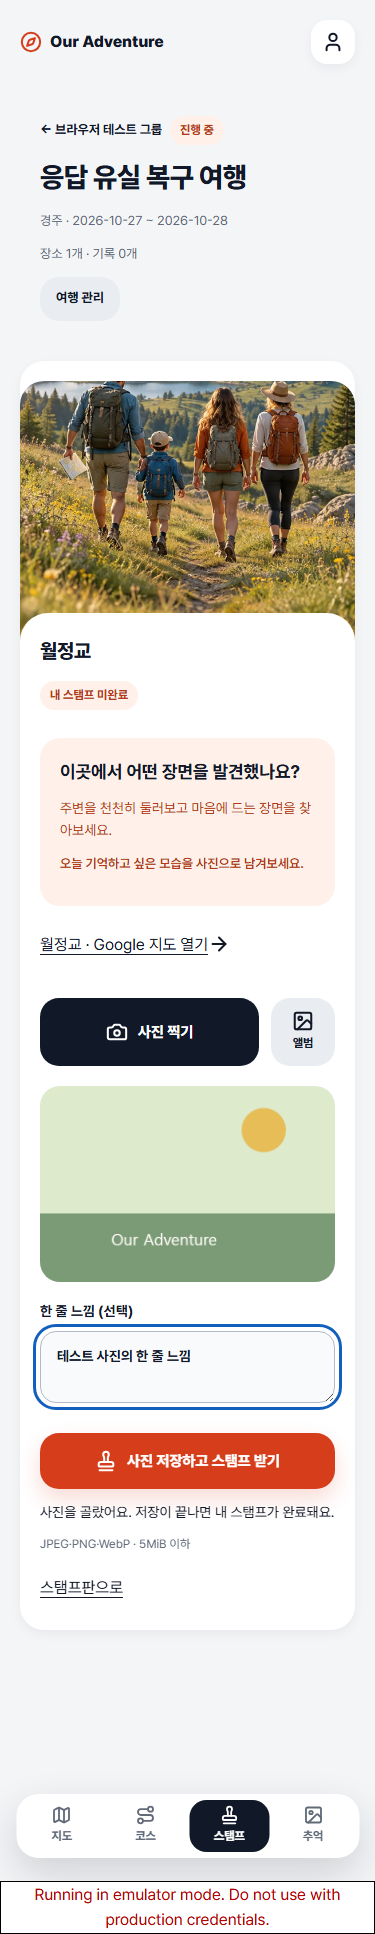
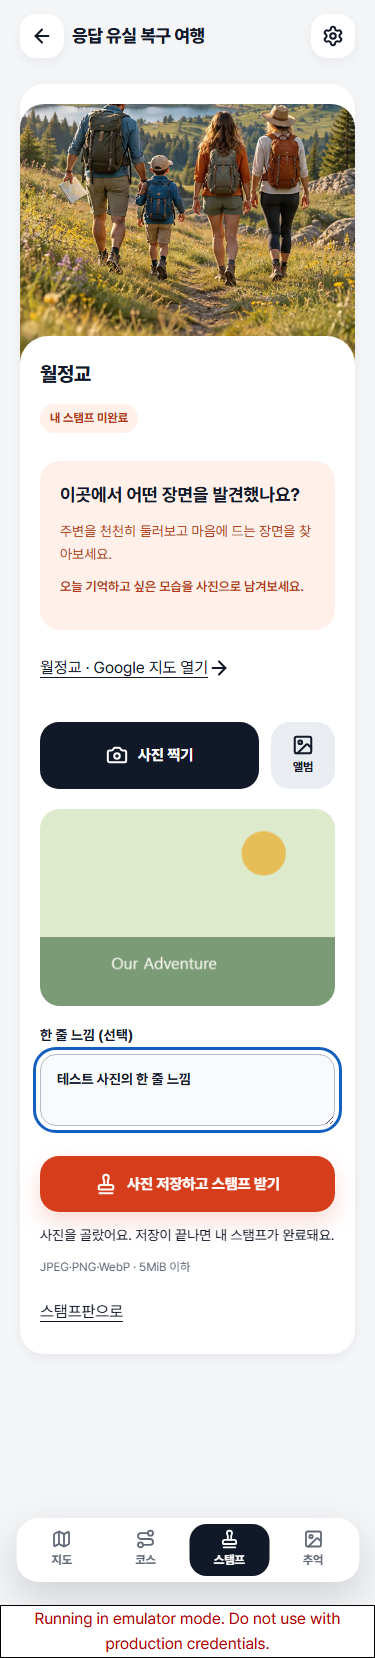
Refine trip navigation, full-screen map and named stamp seals
Replace repeated trip information cards with a compact accessible bar.
Keep the map edge-to-edge and render closed-trip incomplete pins neutrally.
Remove the stamp board wrapper and label completed Jua seals by stamp name.

Refresh all 24 viewport screenshots and retain existing browser checks.
Add layout regression coverage for the PM review requirements.
Validation: 37 unit tests; emulator SDK/group/photo/feed/end/report and PNG
browser checks; 24 viewport accessibility and layout checks passed.

diff --git a/next/style.css b/next/style.css
@@ -516,36 +516,21 @@ body.trip-active #app {
 html {
   scroll-padding-bottom:200px
 }
+body.trip-active .app-header {display:none}
 .trip-heading {
-  box-shadow:none;
-  background:transparent;
-  padding:8px 4px 20px
-}
-.trip-heading>a:first-child {
-  display:inline-flex;
+  display:flex;
   align-items:center;
-  min-height:44px;
-  font-size:13px;
-  font-weight:700;
-  text-decoration:none;
-  max-width:100%
+  gap:8px;
+  min-height:64px;
+  padding:8px 0;
+  margin:0 0 16px;
 }
-.trip-heading>.badge {
-  margin-left:8px;
-  margin-bottom:0
-}
-.trip-heading h1 {
-  margin-top:8px
-}
-.trip-heading>p {
-  font-size:13px;
-  color:var(--muted)
-}
-.trip-heading>.button {
-  min-height:44px;
-  font-size:13px;
-  padding:8px 16px
-}
+.trip-heading h1 {flex:1;min-width:0;margin:0;font-size:18px;line-height:1.35;white-space:nowrap;overflow:hidden;text-overflow:ellipsis}
+.trip-heading>a {display:inline-flex;align-items:center;justify-content:center;min-width:44px;min-height:44px;flex-shrink:0;text-decoration:none;color:var(--ink)}
+.trip-heading .trip-back,.trip-heading .trip-manage {width:44px;background:var(--surface);border-radius:16px;box-shadow:var(--shadow-sm)}
+.trip-heading .badge {flex-shrink:0;margin:0;font-size:12px;padding:4px 8px}
+.trip-heading .trip-report {font-size:12px;font-weight:700}
+
 .trip-panel {
   scroll-margin-bottom:180px
 }
@@ -641,7 +626,7 @@ body.trip-active.emulator-mode #app {
 .map-pin.is-done .map-pin-dot {
   background:#1b6748
 }
-.map-pin:not(.is-done):first-of-type:before {
+.map-pin.is-next:before {
   content:"";
   position:absolute;
   inset:-6px;
@@ -1533,62 +1518,26 @@ body.emulator-mode .new-trip-button {
   flex-wrap:wrap
 }
 
-#app:has(.view-map) .trip-heading {
-  position:absolute;
-  z-index:5;
-  top:16px;
-  left:16px;
-  right:16px;
-  padding:12px 16px;
-  border-radius:22px;
-  background:#fffffff2;
-  box-shadow:var(--shadow-md)
-}
-#app:has(.view-map) .trip-heading h1 {
-  font-size:20px;
-  margin-bottom:8px
-}
-#app:has(.view-map) .trip-heading>p {
-  display:none
-}
-.view-map {
-  position:relative;
-  width:calc(100% + 40px);
-  margin-left:-20px;
-  border-radius:24px
-}
-.view-map>h2,.view-map>.muted {
-  position:absolute;
-  clip:rect(0,0,0,0);
-  width:1px;
-  height:1px;
-  overflow:hidden;
-  padding:0
-}
-.view-map .illustrated-map {
-  height:calc(100svh - 84px)!important;
-  min-height:660px;
-  margin-bottom:0
-}
-.view-map .next-adventure {
-  position:absolute;
-  left:16px;
-  right:16px;
-  bottom:124px;
-  margin:0;
-  z-index:6
-}
-body.emulator-mode .view-map .next-adventure {
-  bottom:176px
-}
+body.trip-active:has(.view-map) {background:#d6e3bf}
+body.trip-active:has(.view-map) main {padding-top:0;padding-bottom:0}
+body.trip-active:has(.view-map) #app {padding-bottom:0}
+#app:has(.view-map) .trip-heading {margin:0 -20px;padding:8px 16px;background:var(--bg)}
+.view-map {position:relative;width:calc(100% + 40px);margin:0 0 0 -20px;padding:0;border-radius:0}
+.view-map>h2,.view-map>.muted {position:absolute;top:0;left:0;margin:0;clip:rect(0,0,0,0);width:1px;height:1px;overflow:hidden;padding:0}
+.view-map .illustrated-map {height:calc(100svh - 64px)!important;min-height:600px;margin:0;border-radius:0;background:#d6e3bf}
+.view-map .illustrated-map>svg {border-radius:0}
+.view-map .next-adventure {position:absolute;left:16px;right:16px;bottom:124px;margin:0;z-index:6}
+body.emulator-mode .view-map .next-adventure {bottom:176px}
+.view-stamps {background:transparent;box-shadow:none;padding:0}
+.stamp-tile.is-done .clay-seal {padding:8px}
+.stamp-tile.is-done .clay-seal>span {font-family:Jua,sans-serif;font-size:14px;line-height:1.15;overflow-wrap:anywhere}
+.map-pin.is-incomplete .map-pin-dot {background:#e9ecf1;color:var(--muted)}
 .celebration-photo img {
   max-height:180px
 }
 
 
-#app:has(.view-map) .trip-heading.is-closed>p:last-of-type {
-  display:block
-}
+
 
 
 .stamp-celebration {

diff --git a/docs/engineering/ui-refresh/README.md b/docs/engineering/ui-refresh/README.md
@@ -8,6 +8,14 @@
 
 기존 인증·초대·정원·개인별 도장·업로드/확정·수정/삭제·종료·리포트 권한과 요청 데이터는 유지한다. 사진 선택은 보이는 카메라/앨범 버튼으로 숨긴 기본 입력을 열고, 칩은 기존 서버 필터 쿼리에 연결한다. 도장 획득 시트는 서버의 `newCompletion` 확인 뒤만 열리며 다음 장소 보기/사진 더 남기기/ESC로 닫을 수 있다. 결과 저장 전 권한 재확인·개인정보 제외와 미리보기 PNG Blob 재사용은 유지한다. 서버·Rules·데이터 모델·운영 설정과 루트 경주 앱은 변경하지 않았다.
 
+## PR #21 PM 검토 반영
+
+여행 화면은 브랜드 헤더와 반복 정보 카드를 제거하고 64px 상단 바(뒤로·여행 이름·종료 배지·리더 관리 아이콘) 하나로 정리했다. 종료 여행은 작은 `리포트` 링크로 결과를 연다. 긴 여행 이름은 한 줄로 줄여 표시하되 접근성 트리에는 전체 이름을 유지한다. 사진 저장 후 집계에 필요한 기록 수는 숨긴 데이터 요소로 유지한다.
+
+지도는 상단 바 아래에서 화면 좌우·하단까지 이어지며 정보 카드가 지도를 덮지 않는다. 종료 여행에는 다음 장소 강조·반복 고리가 없고 미완료 핀을 회색으로 표시한다. 스탬프 화면의 바깥 흰 카드를 제거하고 3열 도장판을 유지했으며, 완료 도장 안에 미션의 스탬프 이름(Jua)을 표시한다. 이름이 없는 기존 장소는 장소 이름을 사용한다.
+
+24장 캡처와 브라우저 검사를 다시 실행했다. 기존 접근성 검사에 상단 바 높이·본문 겹침, 지도 너비·하단 여백, 종료 핀 강조 제거, 도장판 카드 중첩·3열·Jua 이름 검사를 추가했다. 이 과정에서 320px 미디어 규칙이 지도에 카드 여백을 다시 넣는 문제도 수정했다. 단위 테스트 37개와 Auth/Firestore/Storage 실제 SDK·그룹/사진/추억/종료/리포트/PNG 브라우저 검사를 재검증했다. 아래 서버 통합 47개 로그는 T14 최초 검증 결과이며 이번 화면 수정에서 서버 코드를 바꾸거나 해당 서버 전용 테스트를 다시 실행하지 않았다.
+
 ## 커버와 사용 조건
 
 [WebP](../../../next/assets/travel-cover-v2.webp) · [JPEG 대체](../../../next/assets/travel-cover-v2.jpg) · [생성 도구/정확한 프롬프트/사용 조건](image-generation.json) · [크기/해시](cover-metadata.json).
